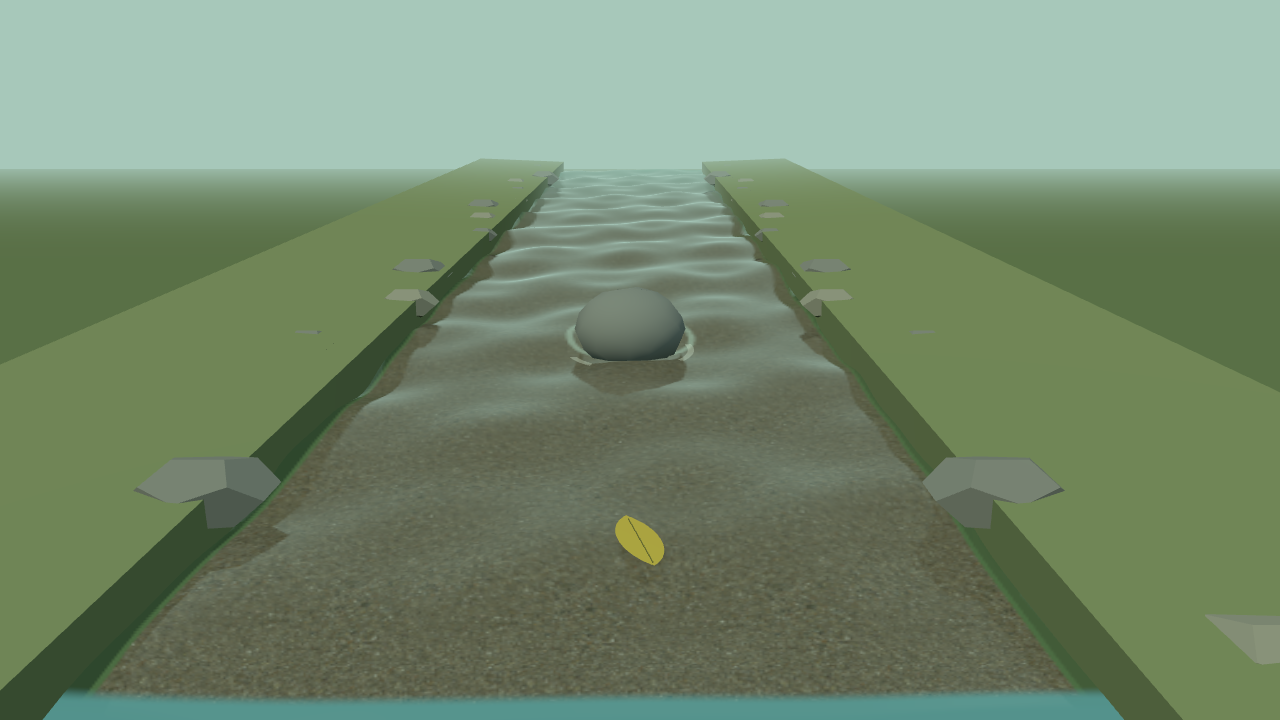
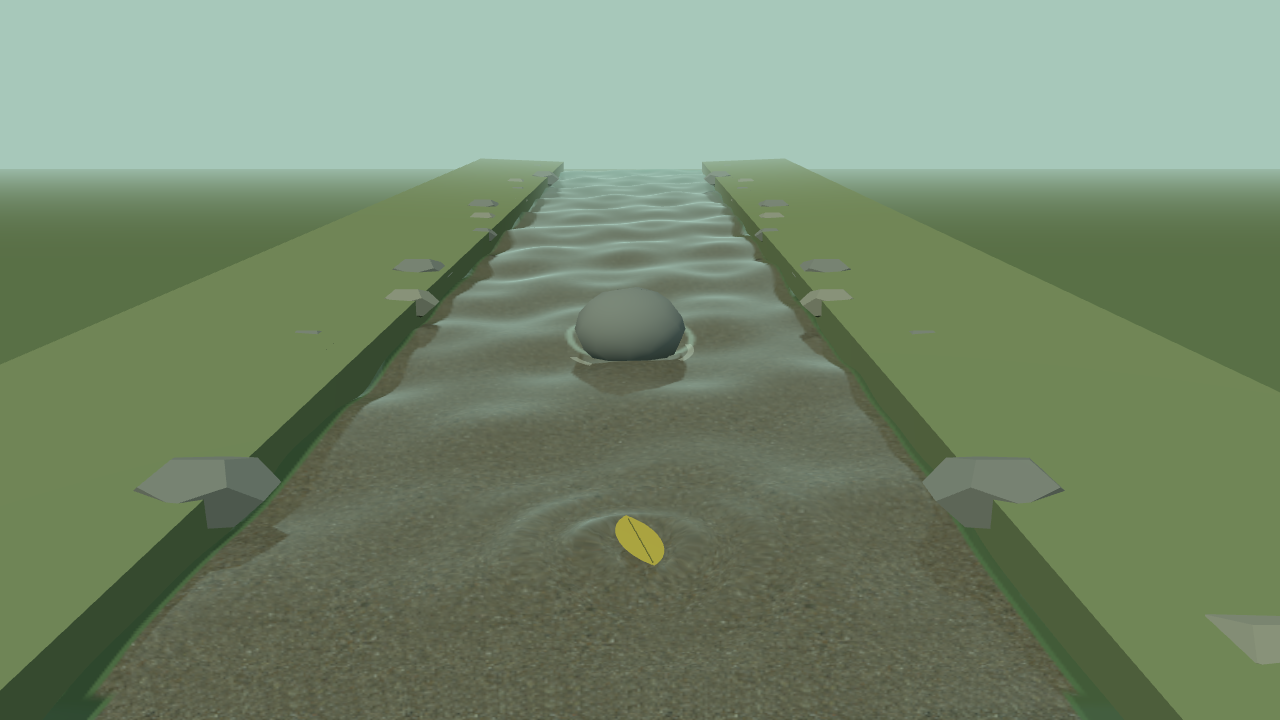
Remove refraction edge seam and add leaf ripples

Changed region(s): [[0.0312, 0.9472, 0.875, 1.0]]

diff --git a/src/simulation.ts b/src/simulation.ts
@@ -74,7 +74,15 @@ export function surface(
   p: Params,
   wind: Pick<
     State,
-    "intensity" | "windX" | "windZ" | "windOffsetX" | "windOffsetZ"
+    | "intensity"
+    | "windX"
+    | "windZ"
+    | "windOffsetX"
+    | "windOffsetZ"
+    | "x"
+    | "z"
+    | "vx"
+    | "vz"
   >,
 ) {
   const { intensity, windX, windZ, windOffsetX, windOffsetZ } = wind;
@@ -104,7 +112,23 @@ export function surface(
         Math.sin(
           -1.1 * x + 2.8 * z - (-1.1 * windOffsetX + 2.8 * windOffsetZ),
         ));
-  return waves + eddy + windWaves;
+  // A bounded expanding ripple follows the moving leaf and vanishes at rest.
+  const dx = x - wind.x,
+    dz = z - wind.z;
+  let leafRipple = 0;
+  if (Math.abs(dx) < 2.5 && Math.abs(dz) < 2.5) {
+    const r = Math.hypot(dx, dz);
+    const strength = Math.min(1, Math.hypot(wind.vx, wind.vz));
+    leafRipple =
+      p.ripple *
+      p.damping *
+      1.8 *
+      strength *
+      Math.sin(r * 9 - t * 5) *
+      Math.exp(-r * 1.2) *
+      (1 - Math.exp(-r * 8));
+  }
+  return waves + eddy + windWaves + leafRipple;
 }
 export function current(x: number, z: number, t: number, p: Params) {
   return Math.max(

diff --git a/src/water.ts b/src/water.ts
@@ -38,9 +38,11 @@ export function createRiverWater(geometry: THREE.BufferGeometry) {
    vec2 refractedUV=projected(refractionMatrix*vec4(bedLocal,1.));
    vec2 reflectedUV=projected(reflectionMatrix*vec4(localPoint,1.))+N.xz*.025;
    vec3 above=texture2D(reflectionMap,clamp(reflectedUV,vec2(.001),vec2(.999))).rgb;
-   vec3 below=texture2D(refractionMap,clamp(refractedUV,vec2(.001),vec2(.999))).rgb;
+   vec2 originalUV=projected(refractionMatrix*vec4(localPoint,1.));
+   vec3 undistorted=texture2D(refractionMap,clamp(originalUV,vec2(.001),vec2(.999))).rgb;
+   vec3 below=mix(undistorted,texture2D(refractionMap,clamp(refractedUV,vec2(.001),vec2(.999))).rgb,edgeFade(refractedUV));
    vec3 tint=vec3(.12,.31,.29);
-   below=mix(tint,below,refractionWeight*edgeFade(refractedUV))*vec3(.72,.93,.9);
+   below=mix(tint,below,refractionWeight)*vec3(.72,.93,.9);
    above=mix(tint,above,reflectionWeight*edgeFade(reflectedUV));
    gl_FragColor=vec4(mix(below,above,fresnel),1.);
    #include <tonemapping_fragment>

diff --git a/docs/ARCHITECTURE.md b/docs/ARCHITECTURE.md
@@ -11,3 +11,7 @@ See PERFORMANCE.md for measured water costs and GITAGENT_VALIDATION.md for actua
 The drawing buffer is resized on viewport events or actual pixel-ratio changes; steady render frames do not call the pixel-ratio setter. Obstacle deflection has been narrowed and reduced so the default zero-wind path clears the rock without approaching the bank as closely.
 
 Water optics: src/water.ts owns Three.js planar capture helpers and a Fresnel/Snell shader. The water geometry now stays in local XY and is rotated as a mesh, so the capture helpers use the correct upward plane normal. Vertex height is local Z, sampling world (x,-localY). The leaf remains in world coordinates. Capture resolution changes only when quality changes. The manual-only test controls disable each optical contribution for stable canvas comparisons; production exposes neither the controls nor manual stepping.
+
+A bounded speed-dependent ripple around the leaf is included in the shared surface sampler, so it contributes to the rendered wave geometry and leaf alignment. It is a local approximation rather than a persistent wake.
+
+At the screen capture edge, refraction smoothly falls back to the undistorted scene capture instead of a flat color, avoiding a visible strip; samples outside the captured view remain approximate.

diff --git a/progress.md b/progress.md
@@ -15,3 +15,5 @@ CI follow-up: resize regression waits advance actual gameplay on slow software r
 Optics verification: seven simulation tests, TypeScript/build and dev/production browser suites pass. Inspected enabled/no-reflection/no-refraction frozen canvas captures. Extra capture passes increase SwiftShader frame intervals (~61 ms at 720p, ~95 ms at 1080p); no hardware performance claim. Planar/screen-edge limitations documented.
 
 Riverbed now uses supplied Low Tide Rocks 2K diffuse texture with sRGB color and 2.2 m tiling; normal, roughness and displacement maps remain unused.
+
+Replaced flat refraction-edge fallback with undistorted capture and verified the seam is gone. Added speed-dependent local leaf ripples in the shared surface sampler and checked gameplay and rendered output.

diff --git a/docs/KNOWN_ISSUES.md b/docs/KNOWN_ISSUES.md
@@ -8,3 +8,5 @@
 - No Windows or Mac executable is packaged or tested. The jam requires one. AI disclosure and all dependency/asset licenses need final review before submission.
 
 Optics limitations: reflection/refraction clip around the mean surface plane; large crests, partly submerged objects and screen edges can show capture artifacts. Refraction assumes the riverbed is at y=-0.41, with no arbitrary submerged-mesh ray tracing. No caustics, multiple scattering, underwater camera or artistic-fidelity acceptance is claimed. Two extra scene passes add rendering cost; hardware GPU performance remains unverified.
+
+Leaf ripples follow the leaf as a localized approximation; they do not persist as independently propagating wake history.
